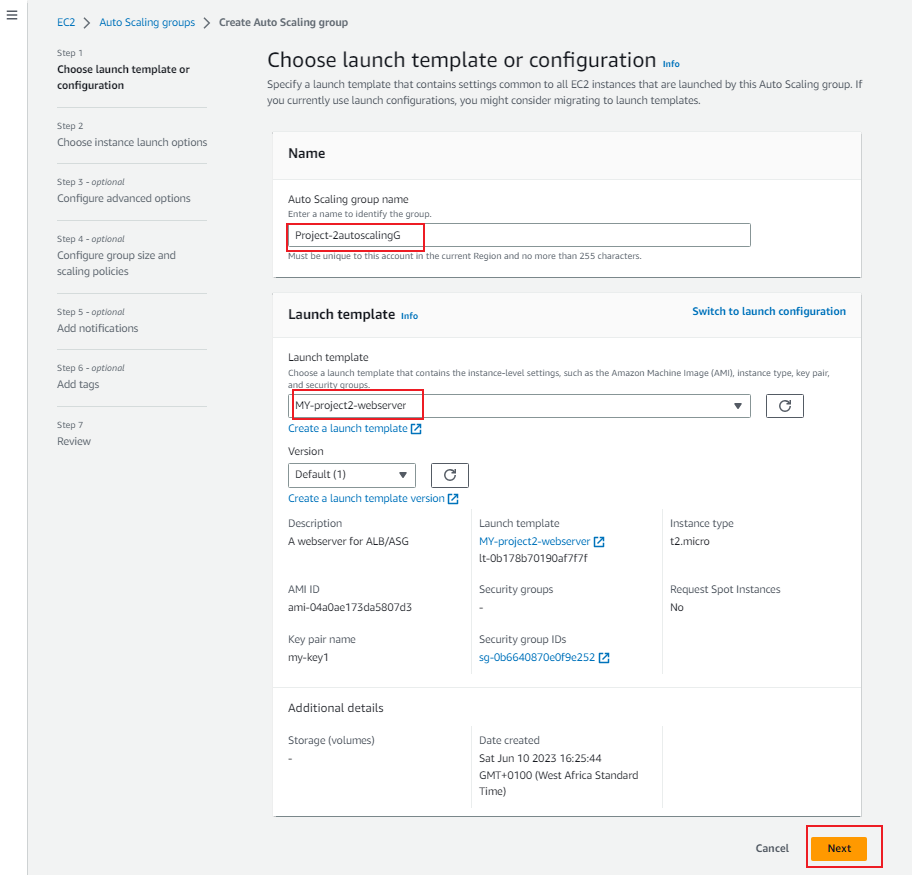
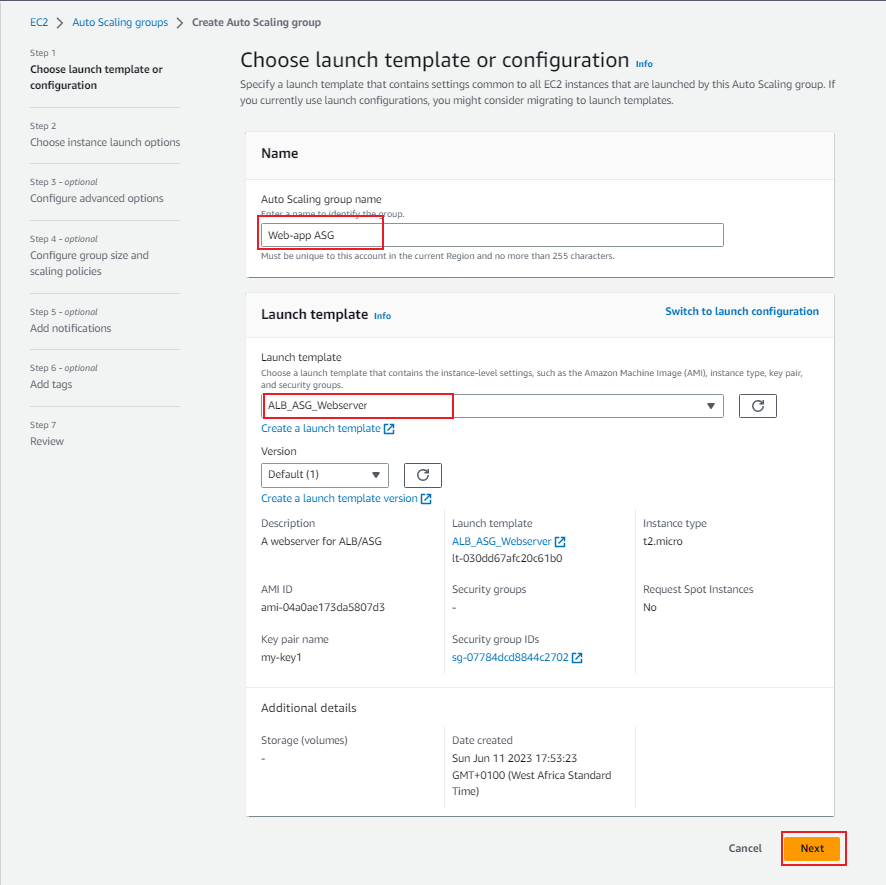
asg-elb

diff --git a/Project2/README.md b/Project2/README.md
@@ -5,6 +5,9 @@
 ![task](./images/assignmet2i.png)
 
 
+![architecture](./images/architecture.png)
+
+
 Requirements:
 
 - AWS free tier
@@ -33,7 +36,7 @@ Let’s call our "my-project2-vpc" project  and use the 10.10.0.0/16 network for
 ![ease](./images/vpc-more4.png)
 
 
-![ease](./images/vpc-more5.png)
+![ease](./images/correct-vpc.png)
 
 ### Step 2: Create Security Groups:
 
@@ -49,7 +52,7 @@ Now that our VPC and network resources have been created we can create a launch 
 
 - Allow incoming traffic on ports 80 and 443 from any source (0.0.0.0/0).
 
-![mine](./images/ALB-SG.png)
+![mine](./images/ALB-SGnew.png)
 
 2. Create an ASG Security Group:
 
@@ -57,7 +60,7 @@ Now that our VPC and network resources have been created we can create a launch 
 
 - Configure inbound rules to only allow traffic from the ALB Security Group.
 
-![mine](./images/ASG.png)
+![mine](./images/ASG-SGnew.png)
 
 
 By configuring the inbound rule to only allow traffic from the ALB Security Group, we  are ensuring that only the Application Load Balancer can send traffic to the instances within the Auto Scaling Group (ASG). This provides a secure and controlled access mechanism for incoming requests to our ASG.
@@ -85,6 +88,16 @@ By configuring the inbound rule to only allow traffic from the ALB Security Grou
 
 - Associate the ASG Security Group created earlier.
 
+![sg](./images/template-new1.png)
+
+
+![sg](./images/template-new2.png)
+
+
+![never](./images/template-new3.png)
+
+
+
 
 ### Step 4: Create an Auto Scaling Group (ASG)
 
@@ -96,11 +109,39 @@ By configuring the inbound rule to only allow traffic from the ALB Security Grou
 
 - Select the Launch Configuration created earlier.
 
-- Set the desired capacity and maximum size to 2 (to stay within the free tier).
+
 
 - Choose the private subnet created in Step 1.
 
 - Associate the ASG with the ASG Security Group.
 
+- Select “Create a target group” under “Listeners and routing” and leave the default.
+
+- Click  Next.
+
+- Set the desired capacity and maximum size to 2 (to stay within the free tier).
+
 - Enable scaling policies based on desired metrics (e.g., CPU utilization).
 
+- Review and create Auto scaling group
+
+![new](./images/ASG-2.png)
+
+
+You can go to your EC2 instances section in the console to confirm.
+
+![goup](./images/ASG-10.png)
+
+
+At this pointt, our web apps can receive inbound traffic via the security group we created.
+However, our load balance does not have the security group applied.
+Let’s go to our load balancer and apply the group.
+
+### Step 5: Create an Application Load Balancer (ALB)
+
+- Within the EC2 service, navigate to Load Balancers.
+Create a new Application Load Balancer:
+Configure the ALB to listen on ports 80 and 443.
+Assign the ALB to the ALB Security Group created earlier.
+Specify the public subnet created in Step 1.
+Configure health checks and any desired additional settings.
